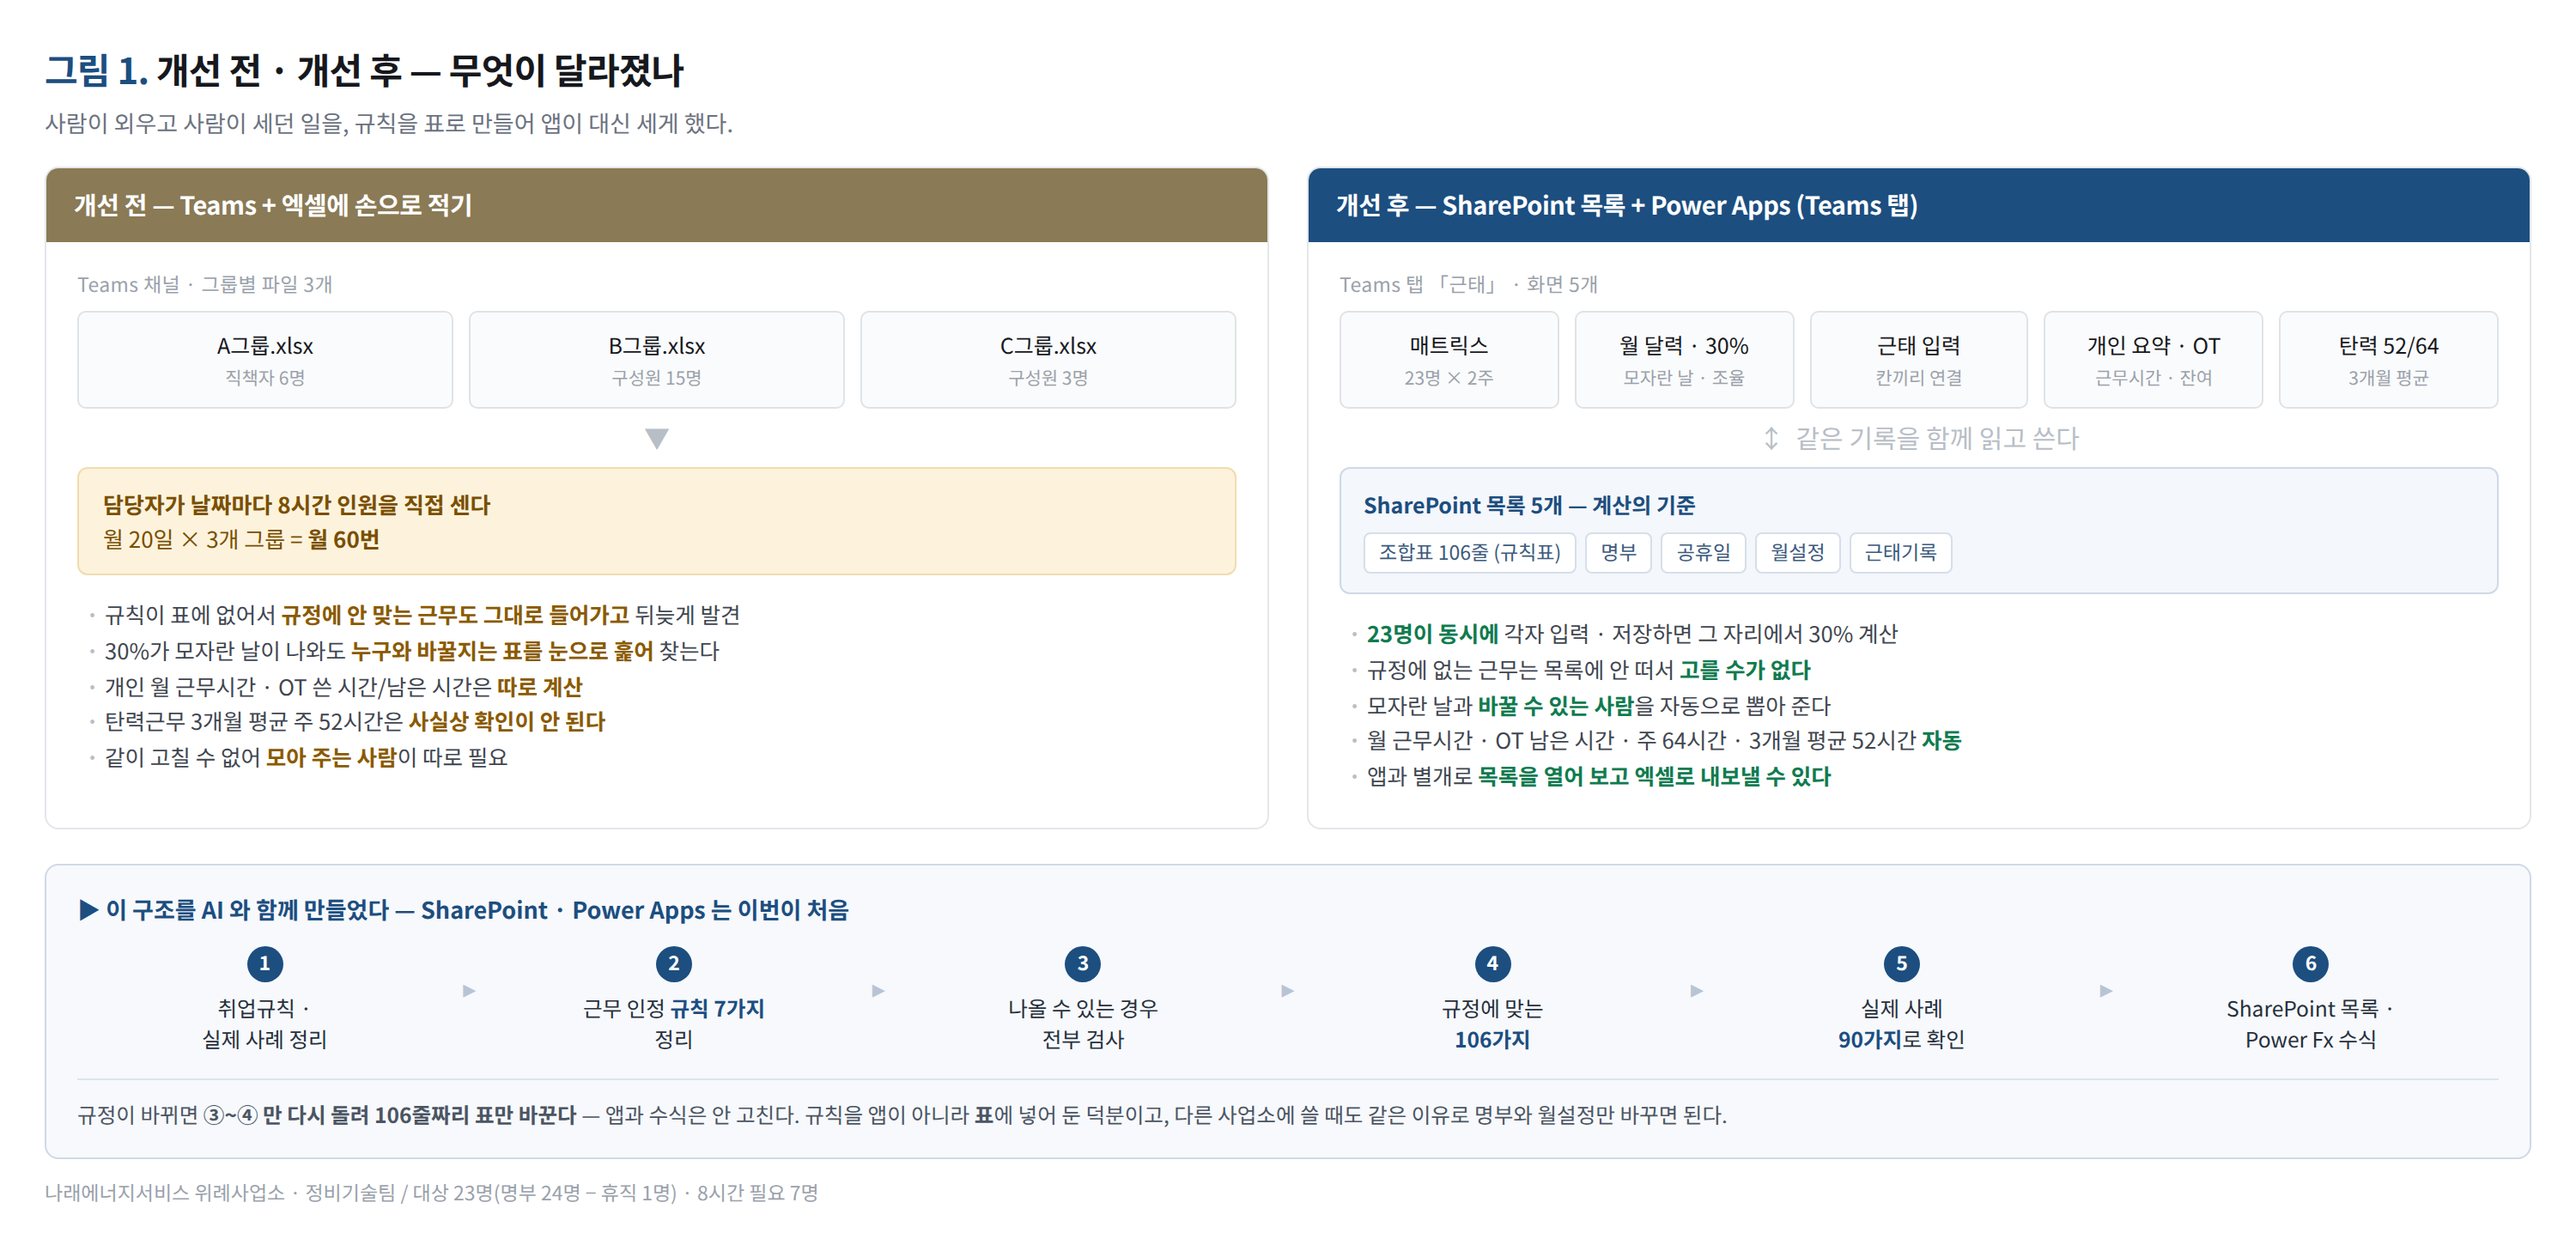
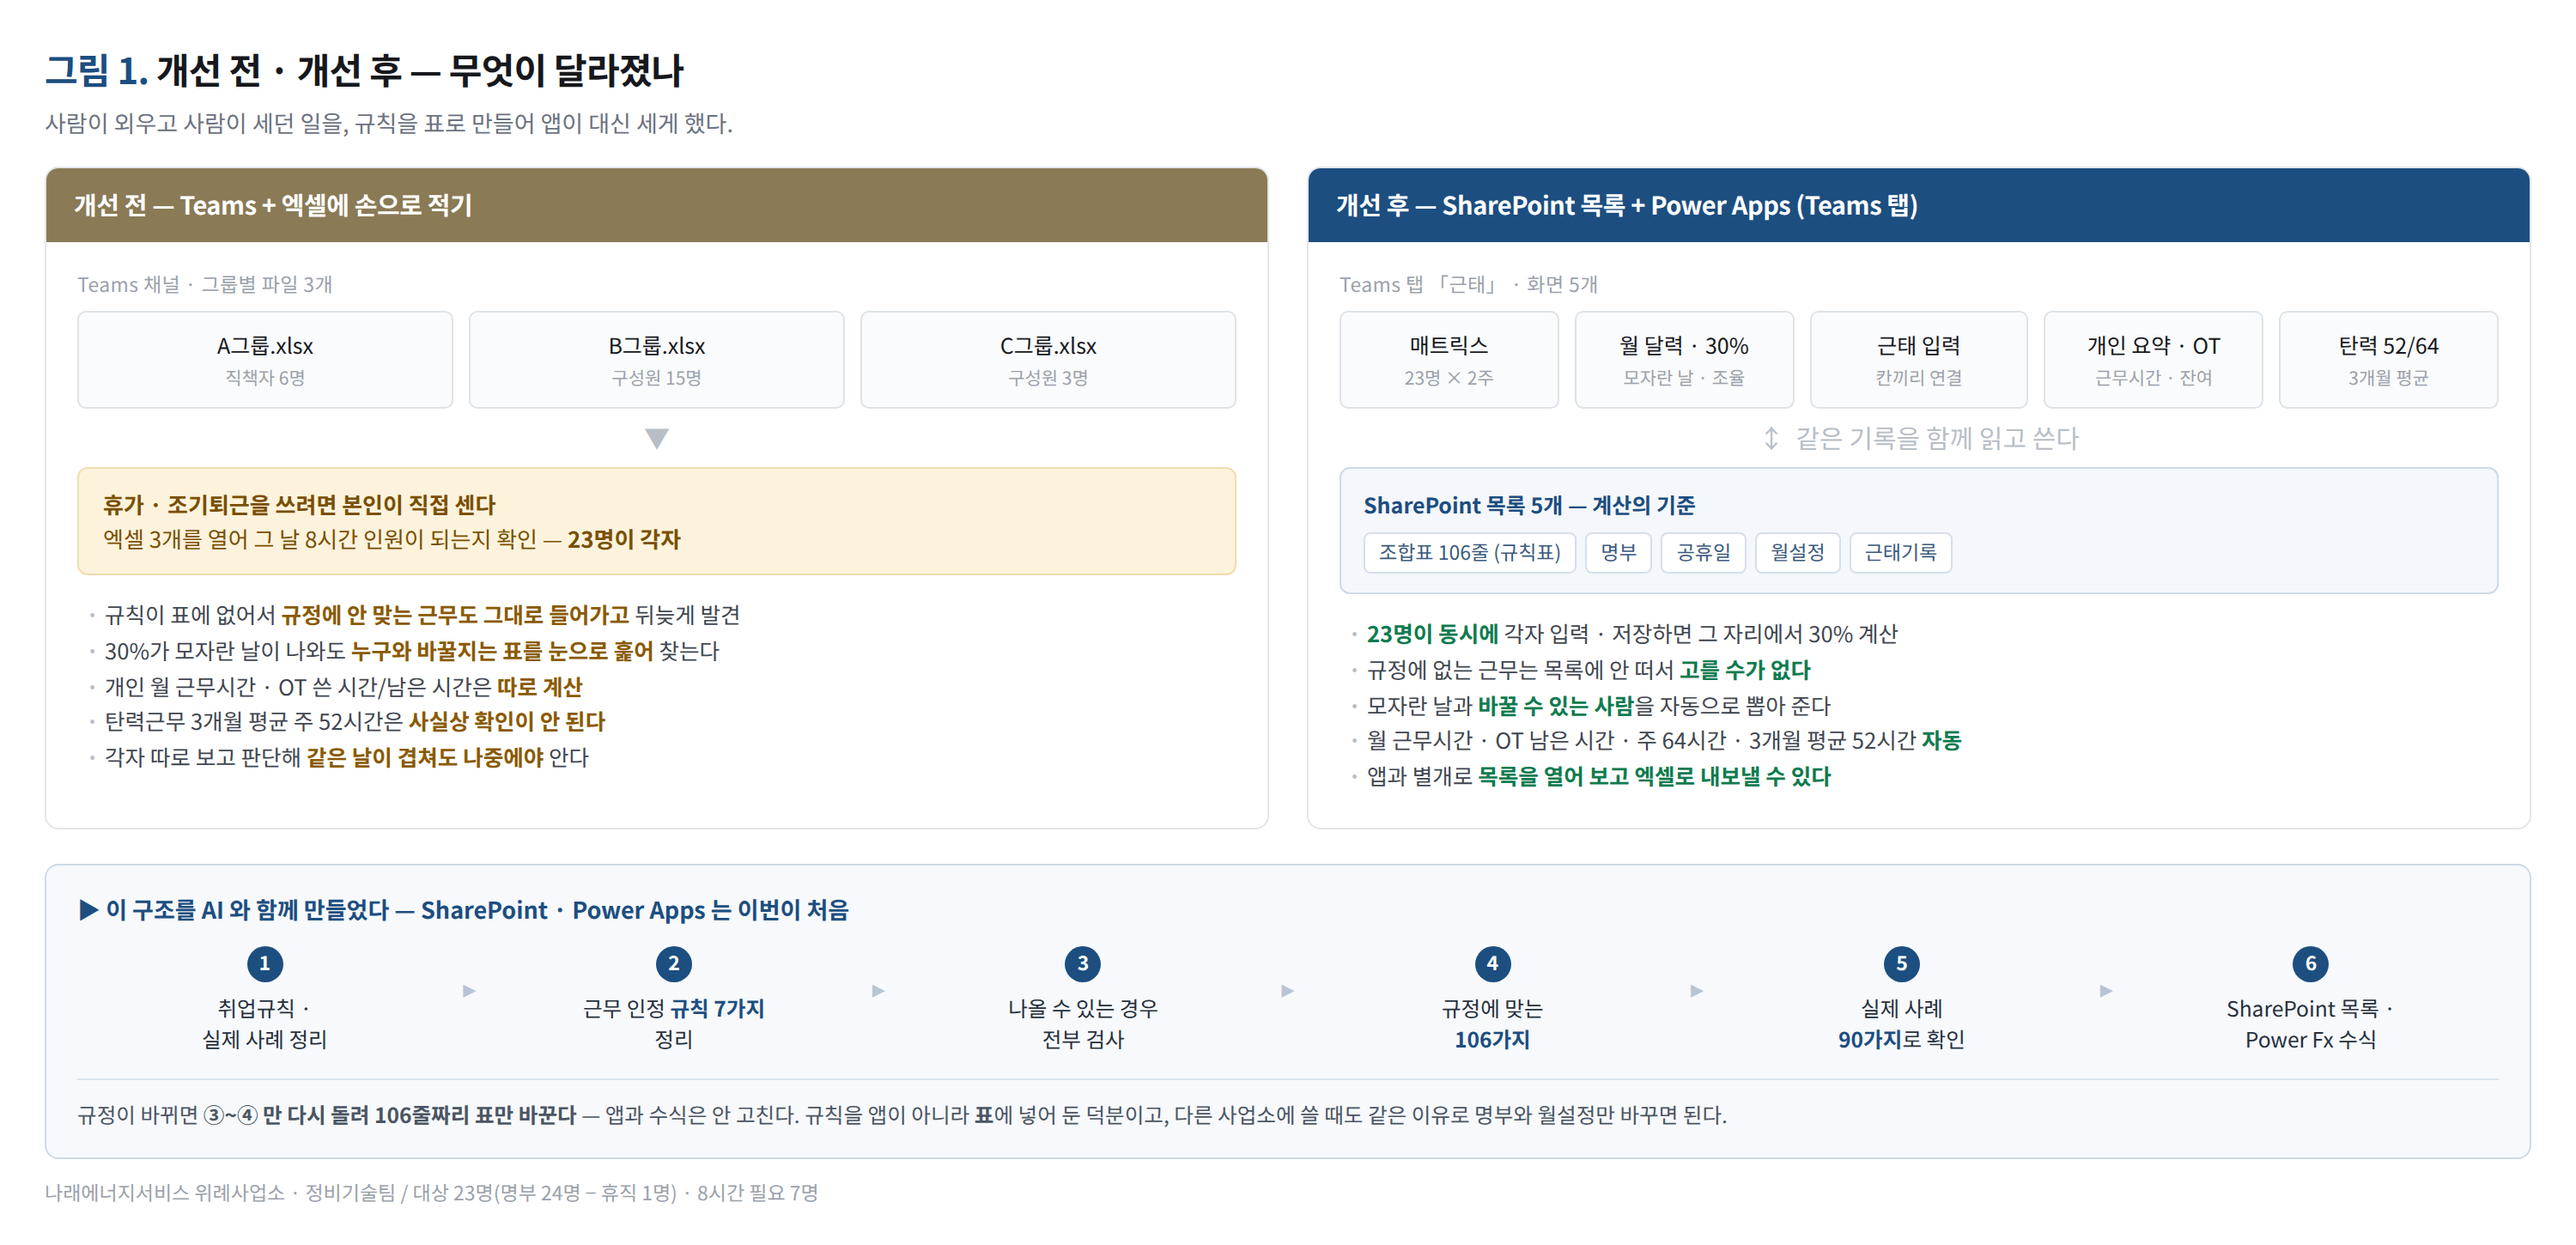
docs(worktime): 30% 확인 주체를 바로잡음 — 취합 담당자는 없었다
「담당자가 날짜마다 세어 월 60번」은 사실과 다르다. 취합 담당자를 둔 적이
없고, 휴가나 조기퇴근을 쓰려는 사람이 그때그때 엑셀 3개를 열어 본인이
직접 세는 방식이었다. 문제점 2·4, 효과 1·4·5와 그림 1·2·4 를 함께 고쳤다.

각자 따로 보고 판단하다 두 사람이 같은 날을 잡으면 나중에야 알게 되던
문제를 효과 5에 넣었다 — 모두가 같은 기록을 보게 된 것이 실제 이득이다.

Claude-Session: https://claude.ai/code/session_01UcJcEuQP8b1HobNbkbcBFt

Changed region(s): [[0.031, 0.3724, 0.248, 0.4655], [0.031, 0.5897, 0.217, 0.6207]]

diff --git a/docs/worktime/CONTEST.md b/docs/worktime/CONTEST.md
@@ -34,7 +34,7 @@
 AI로 만든 근태 관리 앱 — 30% 필수인원과 초과근무를 저장 즉시 자동 계산
 ```
 ```
-손으로 세던 근태 취합을 없앤 판정 앱 (AI 규칙 정리 + SharePoint · Power Apps)
+휴가 쓸 때마다 엑셀을 세던 일을 없앤 근태 앱 (AI 규칙 정리 + SharePoint · Power Apps)
 ```
 </details>
 
@@ -67,11 +67,12 @@ Claude (Claude Code) · Microsoft Power Apps(Power Fx) · SharePoint 목록 · M
 ```
 1. 위례사업소는 선택적 근로시간제를 쓰고 있어서, 매일 8시간을 채워 일하는 사람이
    전체의 30%(23명 기준 7명) 이상이어야 하고 그 안에 직책자가 1명은 들어가야 한다.
-2. 이걸 Teams에 올린 그룹별 엑셀 3개에 각자 손으로 적고, 30%가 찼는지는 담당자가
-   날짜마다 사람 수를 직접 세어 확인했다 — 월 20일 × 3개 그룹 = 월 60번.
+2. 이걸 Teams에 올린 그룹별 엑셀 3개에 각자 손으로 적는데, 휴가를 쓰거나 일찍 퇴근하려면
+   그 엑셀 3개를 열어 그 날 8시간 인원이 되는지 본인이 직접 세어 봐야 했다.
 3. 코어타임(08:30~11:30)이나 반차를 붙일 수 있는 시각, 휴게시간 공제 같은 규칙은
    엑셀에 나타나지 않아, 규정에 안 맞는 근무(예: 오전반차 09:00~14:00)도 그대로 들어갔다.
-4. 30%가 모자란 날이 생겨도 누구와 근무를 바꿔야 할지는 표를 눈으로 훑어 찾아야 했다.
+4. 각자 따로 보고 판단하다 보니 두 사람이 같은 날을 잡아 30%가 깨져도 나중에야 알았고,
+   누구와 근무를 바꿔야 할지는 표를 눈으로 훑어 찾아야 했다.
 5. 개인별 월 근무시간, OT 쓴 시간과 남은 시간, 탄력근무 주 52/64시간은 따로 계산해야
    해서 확인이 늦고 틀리는 일이 있었다.
 ```
@@ -114,15 +115,16 @@ Claude (Claude Code) · Microsoft Power Apps(Power Fx) · SharePoint 목록 · M
 ### 3-4. 달라진 점 / 개선 효과 (정량 · 정성)  *(가이드 3~5줄 · 수치 기재)*
 
 ```
-1. [정량] 날짜별 30% 확인이 월 60번 손계산 → 0번. 저장하면 바로 나온다. 취합하는 사람
-   없이 23명이 동시에 각자 입력한다(엑셀 파일 3개 → 목록 1개).
+1. [정량] 휴가나 근무시간 조정을 하려면 엑셀 3개를 열어 그 날 8시간 인원을 직접 세어
+   봐야 했다. 23명이 각자 하던 이 확인이 0이 됐다 — 앱을 열면 날짜마다 숫자가 이미
+   떠 있다(엑셀 3개 → 목록 1개, 23명이 같은 화면을 본다).
 2. [정량] 잘못 입력할 방법이 없어졌다. 유형 11 × 출근 6 × 퇴근 18 = 1,188가지 중
    규정에 맞는 106가지만 목록에 뜨기 때문이다.
 3. [정량] 개인 월 근무시간과 OT 남은 시간 손계산 연 276건(23명 × 12개월) → 0건.
    휴가를 쓰면 채워야 할 시간과 OT 한도가 자동으로 따라 바뀐다.
-4. [정량] 월 취합·대조에 쓰던 시간 약 3~4시간 → 10분 안팎(시험 운영 기준, 자체 추정).
-5. [정성] 모자란 날과 바꿀 수 있는 사람이 바로 보여 누구와 조율할지 찾는 일이 없어졌고,
-   판단 근거가 기록으로 남아 팀장 승인 자료로 그대로 쓴다.
+4. [정량] 확인하고 맞춰 보는 데 쓰던 시간 월 3~4시간 → 10분 안팎(시험 운영 기준, 자체 추정).
+5. [정성] 전에는 각자 따로 보고 판단해 같은 날이 겹쳐도 나중에야 알았는데, 이제는 모두가
+   같은 기록을 봐서 그 자리에서 드러난다. 판단 근거도 남아 팀장 승인 자료로 그대로 쓴다.
 ```
 
 ### 3-5. 확산 가능성  *(가이드 2~4줄)*
